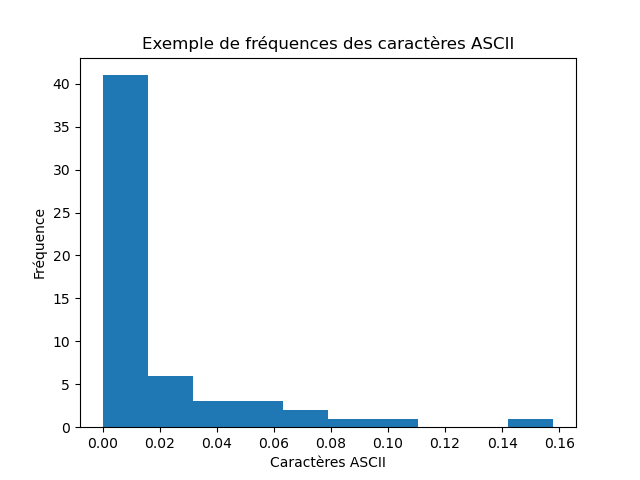
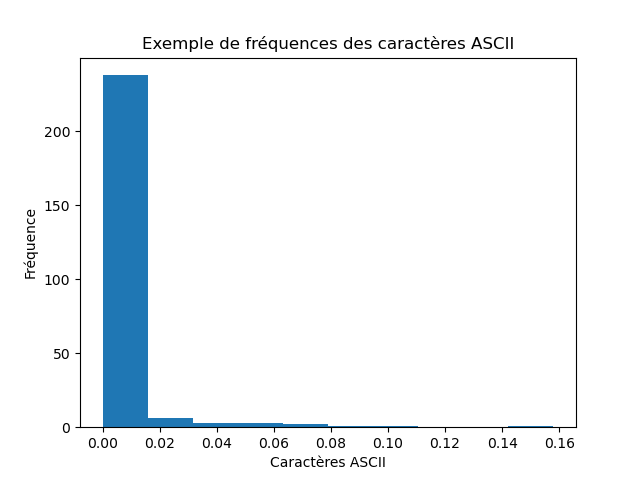
freq

diff --git a/visualization/frequency_visualization/frequency_visualisation.py b/visualization/frequency_visualization/frequency_visualisation.py
@@ -41,7 +41,7 @@ def worcloud_visualization(language):
 def frequency_visualization_zoom(language):
     """Provide an histogram of the first visualization of frequencies."""
     frequencies = np.loadtxt(f"/home/onyxia/work/projet_python_ds/training/Frequency/Frequencies_{language}.txt")
-    frequencies=frequencies[np.ix_([32] + list(range(97, 123)) + list(range(224, 255)))]
+    #frequencies=frequencies[np.ix_([32] + list(range(97, 123)) + list(range(224, 255)))]
     plt.hist(frequencies)
     
 
